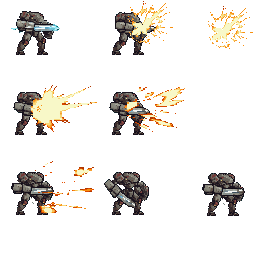
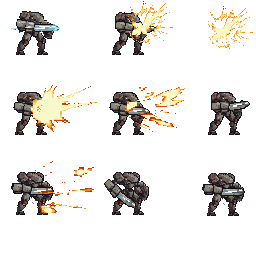
Update 0.241
Camera Bug fixed
PlayerM animation Update

Changed region(s): [[0.8125, 0.3438, 0.9688, 0.5312]]

diff --git a/Assets/Scrips/Player/PlayerMachinist/MachinistShooting.cs b/Assets/Scrips/Player/PlayerMachinist/MachinistShooting.cs
@@ -60,7 +60,6 @@ public class MachinistShooting : MonoBehaviour
     float pendingFireAt;
     FireDir pendingFireDir;
     PlayerMNormalBullet pendingPrefab;
-    bool pendingRaiseComboEvent;
 
     bool hasTrackedComboStance;
     ComboStance lastComboStance;
@@ -165,9 +164,7 @@ public class MachinistShooting : MonoBehaviour
             return;
 
         hasPendingFire = false;
-        bool raiseCombo = pendingRaiseComboEvent;
-        pendingRaiseComboEvent = false;
-        Fire(pendingFireDir, pendingPrefab, raiseCombo);
+        Fire(pendingFireDir, pendingPrefab);
         pendingPrefab = null;
     }
 
@@ -204,12 +201,16 @@ public class MachinistShooting : MonoBehaviour
 
         lastShotTime = Time.time;
         bool isCombo = kind == MachinistShootKind.Combo;
+        // 终结连击：射击动画一开始就触发机器人连携，不等子弹生成
+        if (isCombo)
+            robotComboEvent?.RaiseEvent();
+
         var prefab = isCombo ? comboProjectilePrefab : normalProjectilePrefab;
         float delay = isCombo ? comboFireDelay : normalFireDelay;
         FireDir fireDir = ResolveFireDir();
         if (isCombo && isHorizontalForward)
             fireDir = FireDir.Crouch;
-        ScheduleFire(fireDir, prefab, delay, isCombo);
+        ScheduleFire(fireDir, prefab, delay);
 
         if (isCombo && !forceComboFromSpecialS)
             comboCount = 0;
@@ -247,13 +248,12 @@ public class MachinistShooting : MonoBehaviour
             : MachinistShootKind.Normal;
     }
 
-    void ScheduleFire(FireDir dir, PlayerMNormalBullet prefab, float delay, bool raiseComboEvent = false)
+    void ScheduleFire(FireDir dir, PlayerMNormalBullet prefab, float delay)
     {
         if (prefab == null)
         {
             hasPendingFire = false;
             pendingPrefab = null;
-            pendingRaiseComboEvent = false;
             return;
         }
 
@@ -261,8 +261,7 @@ public class MachinistShooting : MonoBehaviour
         {
             hasPendingFire = false;
             pendingPrefab = null;
-            pendingRaiseComboEvent = false;
-            Fire(dir, prefab, raiseComboEvent);
+            Fire(dir, prefab);
             return;
         }
 
@@ -270,7 +269,6 @@ public class MachinistShooting : MonoBehaviour
         pendingFireAt = Time.time + delay;
         pendingFireDir = dir;
         pendingPrefab = prefab;
-        pendingRaiseComboEvent = raiseComboEvent;
     }
 
     void FireChargeShot()
@@ -359,7 +357,7 @@ public class MachinistShooting : MonoBehaviour
         return FireDir.Forward;
     }
 
-    void Fire(FireDir dir, PlayerMNormalBullet fallbackPrefab, bool raiseComboEvent = false)
+    void Fire(FireDir dir, PlayerMNormalBullet fallbackPrefab)
     {
         if (fallbackPrefab == null)
             return;
@@ -389,9 +387,6 @@ public class MachinistShooting : MonoBehaviour
         }
 
         ammo.Init(dir, faceY, character);
-
-        if (raiseComboEvent)
-            robotComboEvent?.RaiseEvent();
     }
 
     GameObject ResolveSpecialPrefab(SpecialAmmoType type) => type switch
